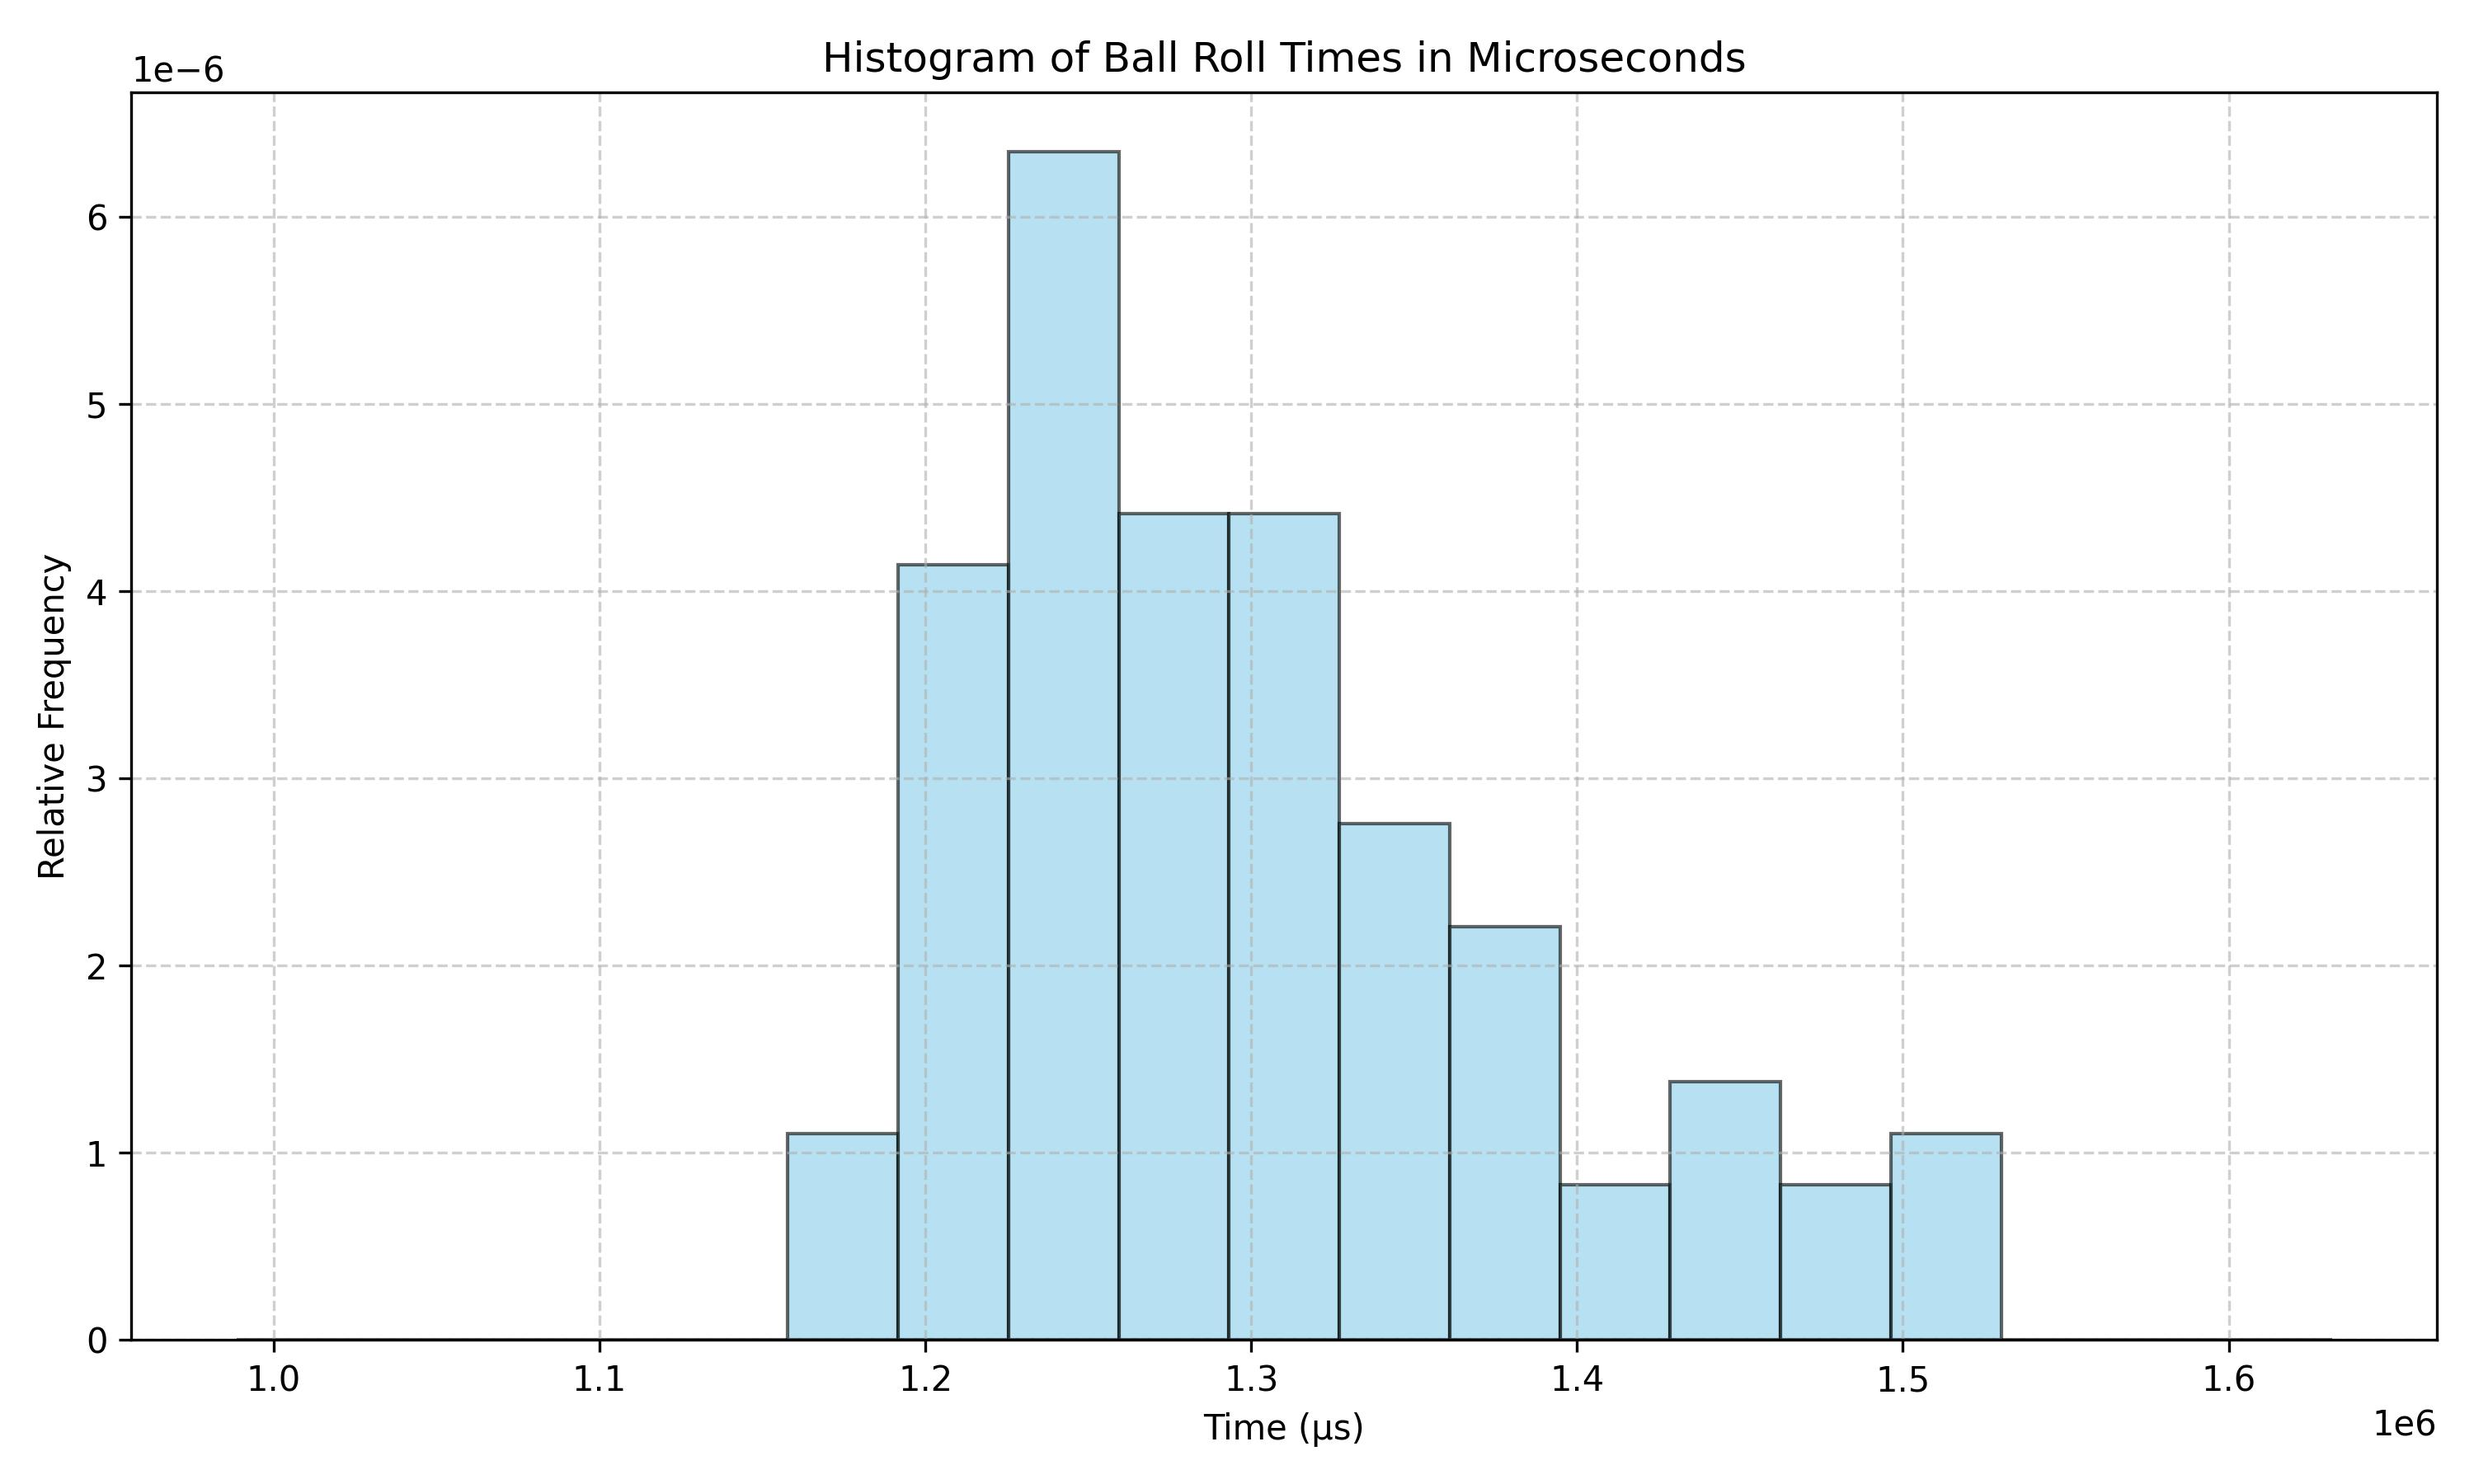
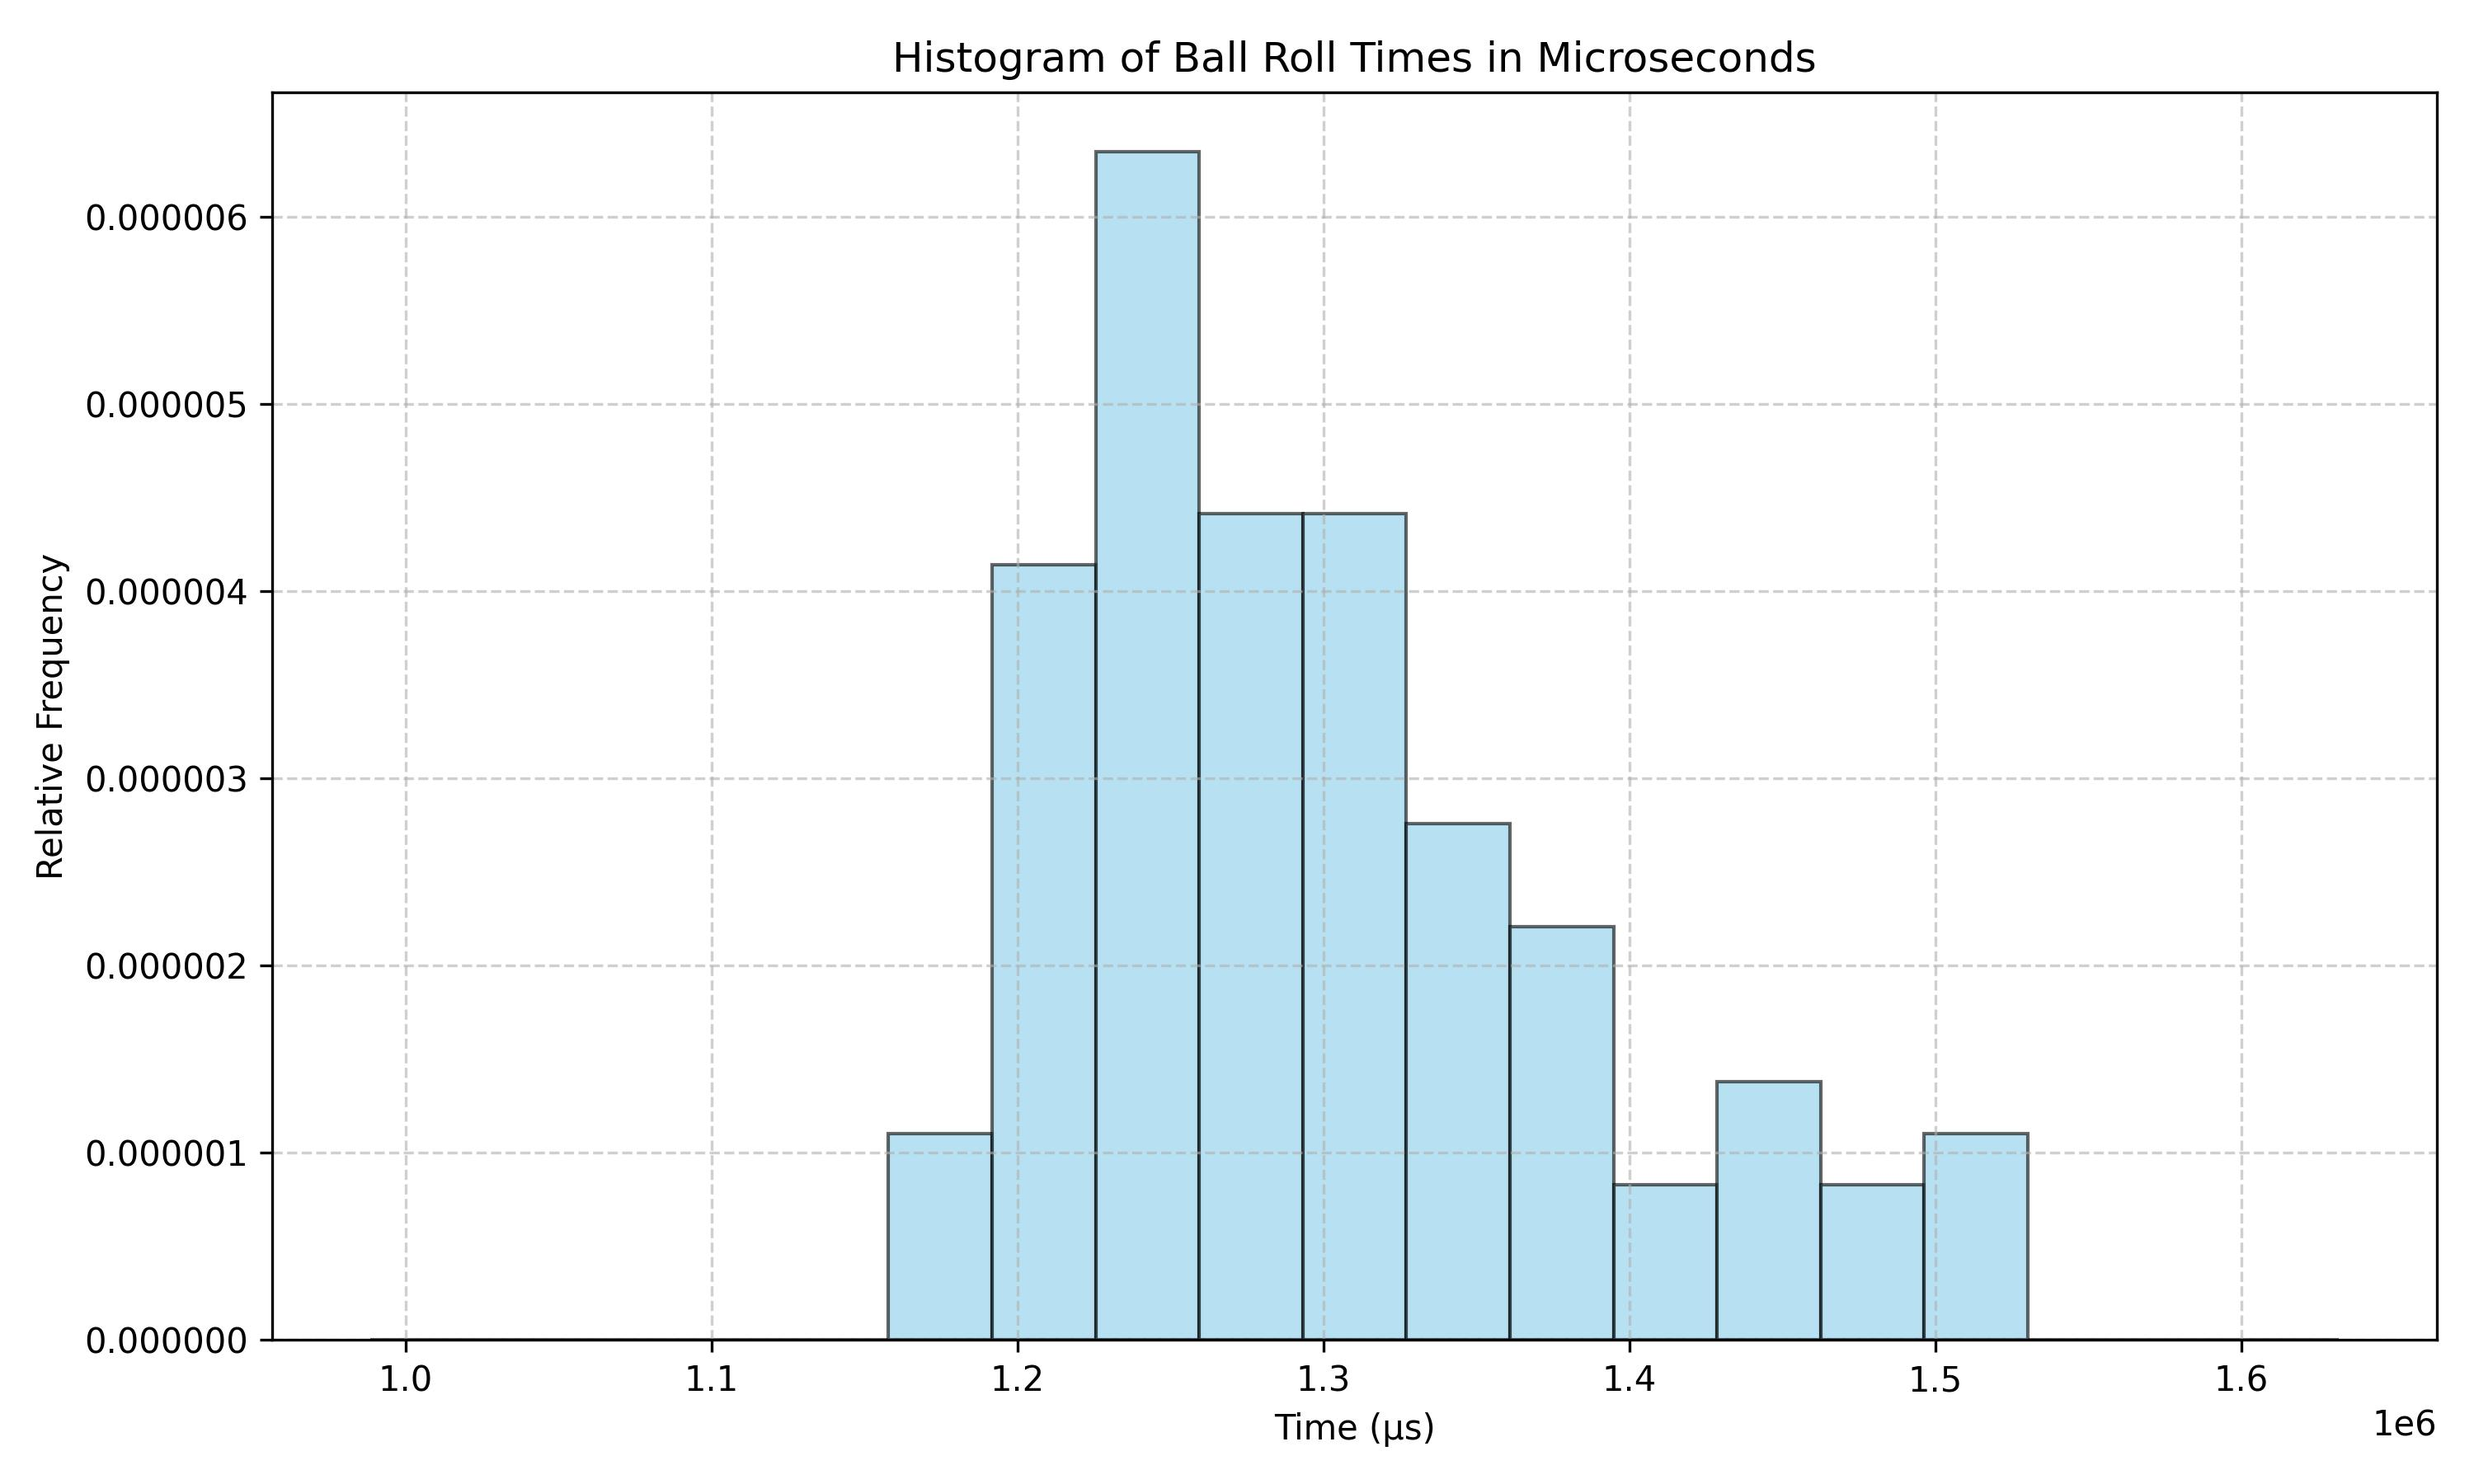
.

diff --git a/main.py b/main.py
@@ -18,7 +18,6 @@ print(f"Sample Size: {len(df)}") # 109
 print(f"Sample Mean: {mean:.2f} μs") # 1310125.25 μs
 print(f"Sample Standard Deviation: {std:.2f} μs") # 107202.17 μs
 
-
 plt.figure(figsize=(10, 6))
 x_min = mean - 3*std
 x_max = mean + 3*std
@@ -28,11 +27,11 @@ plt.hist(df["time"], bins=bins, density=True, alpha=0.6,
 plt.title("Histogram of Ball Roll Times in Microseconds")
 plt.xlabel("Time (μs)")
 plt.ylabel("Relative Frequency")
+plt.gca().ticklabel_format(axis='y', style='plain')
 plt.grid(True, linestyle="--", alpha=0.6)
 plt.tight_layout()
 plt.savefig("histogram.jpg", dpi=300)
 plt.close()
-
 
 plt.figure(figsize=(10, 6))
 plt.hist(df["time"], bins=bins, density=True, alpha=0.6,
@@ -43,6 +42,7 @@ plt.plot(x, p, "r", linewidth=2, label="Normal Distribution")
 plt.title("Histogram with Normal Distribution Curve")
 plt.xlabel("Time (μs)")
 plt.ylabel("Relative Frequency")
+plt.gca().ticklabel_format(axis='y', style='plain')
 plt.legend()
 plt.grid(True, linestyle="--", alpha=0.6)
 plt.tight_layout()
